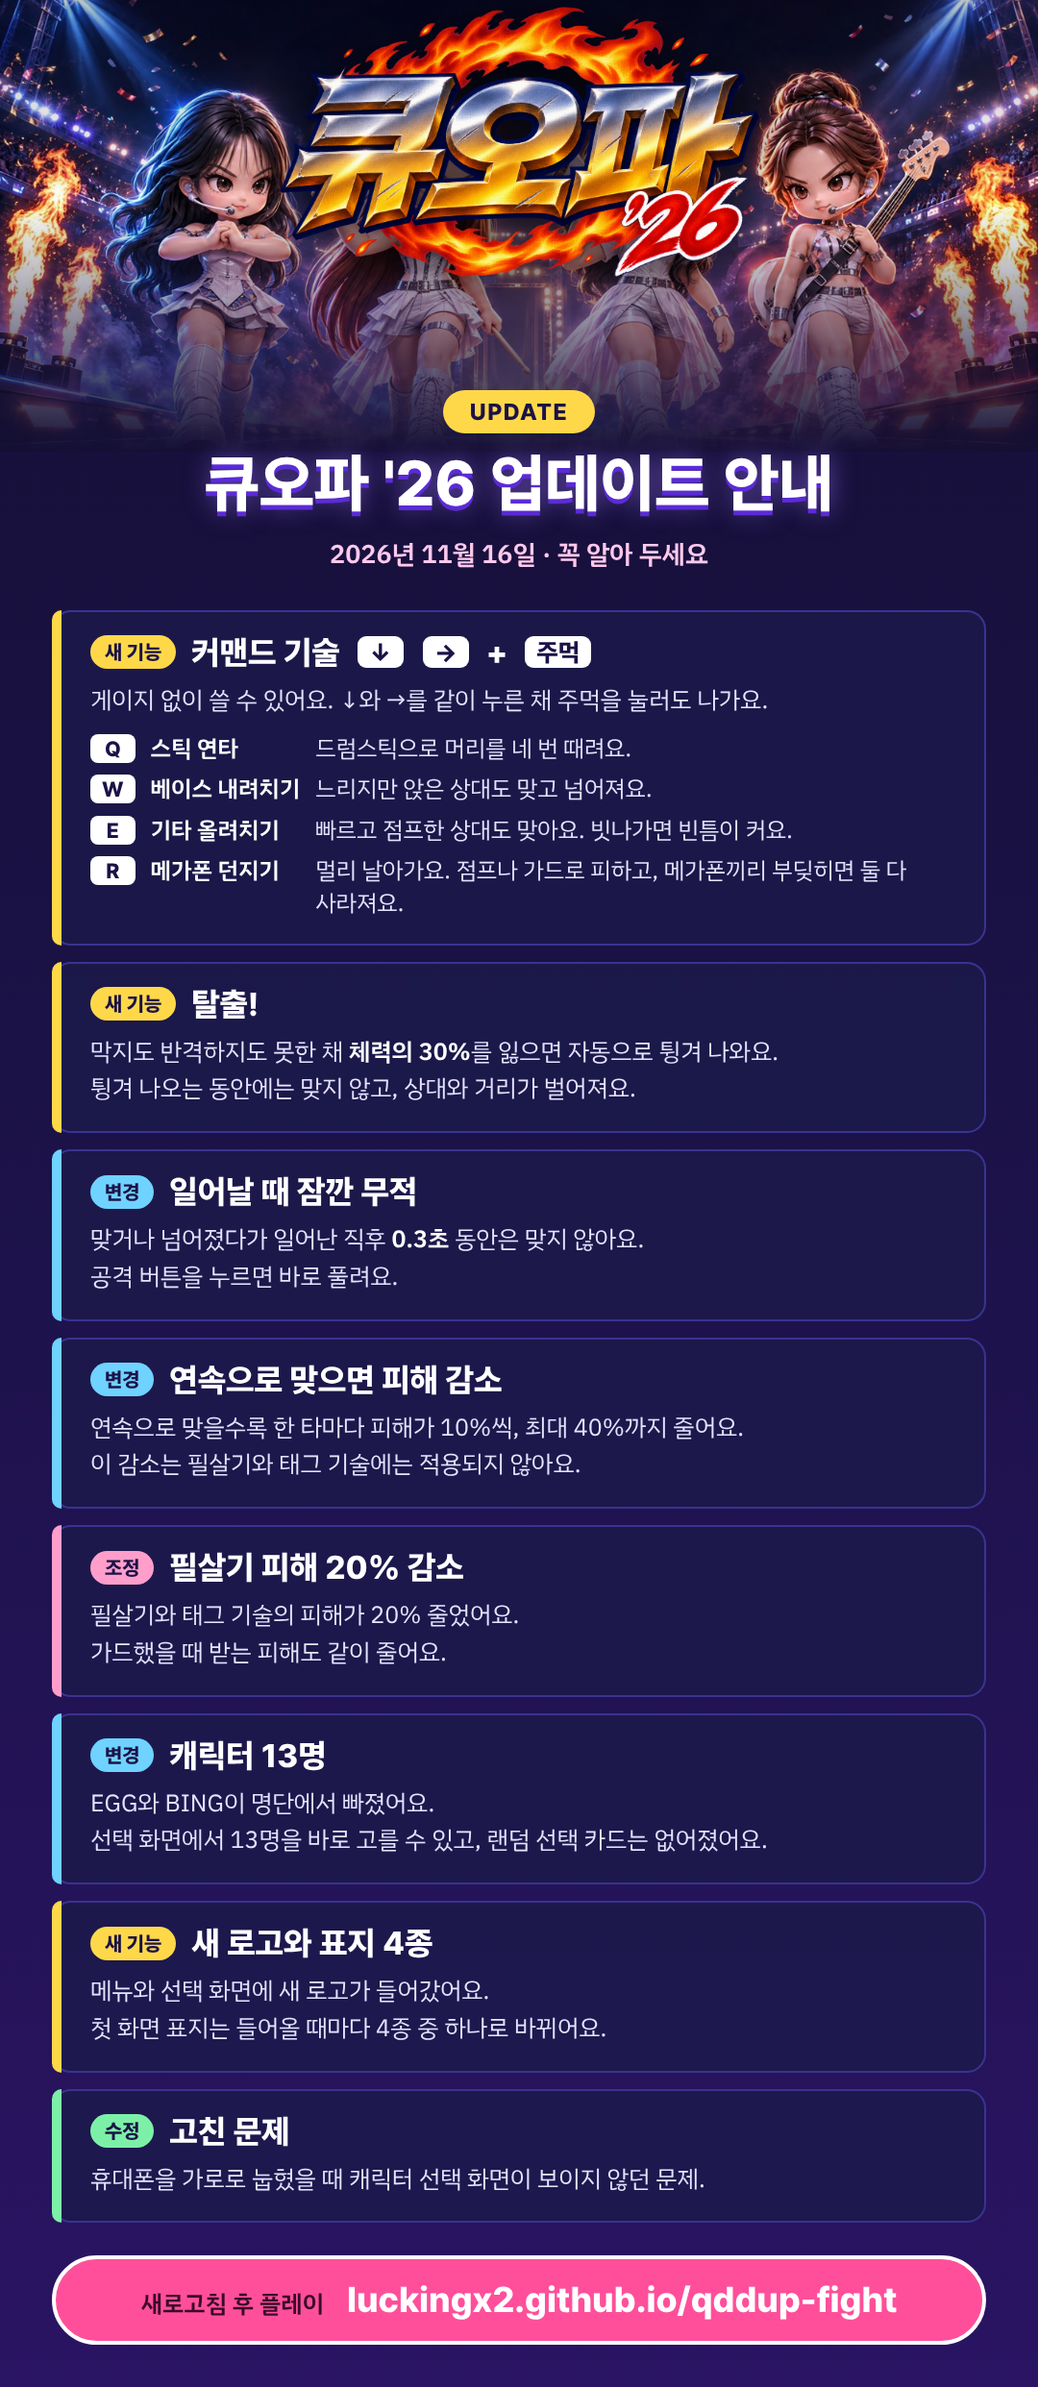
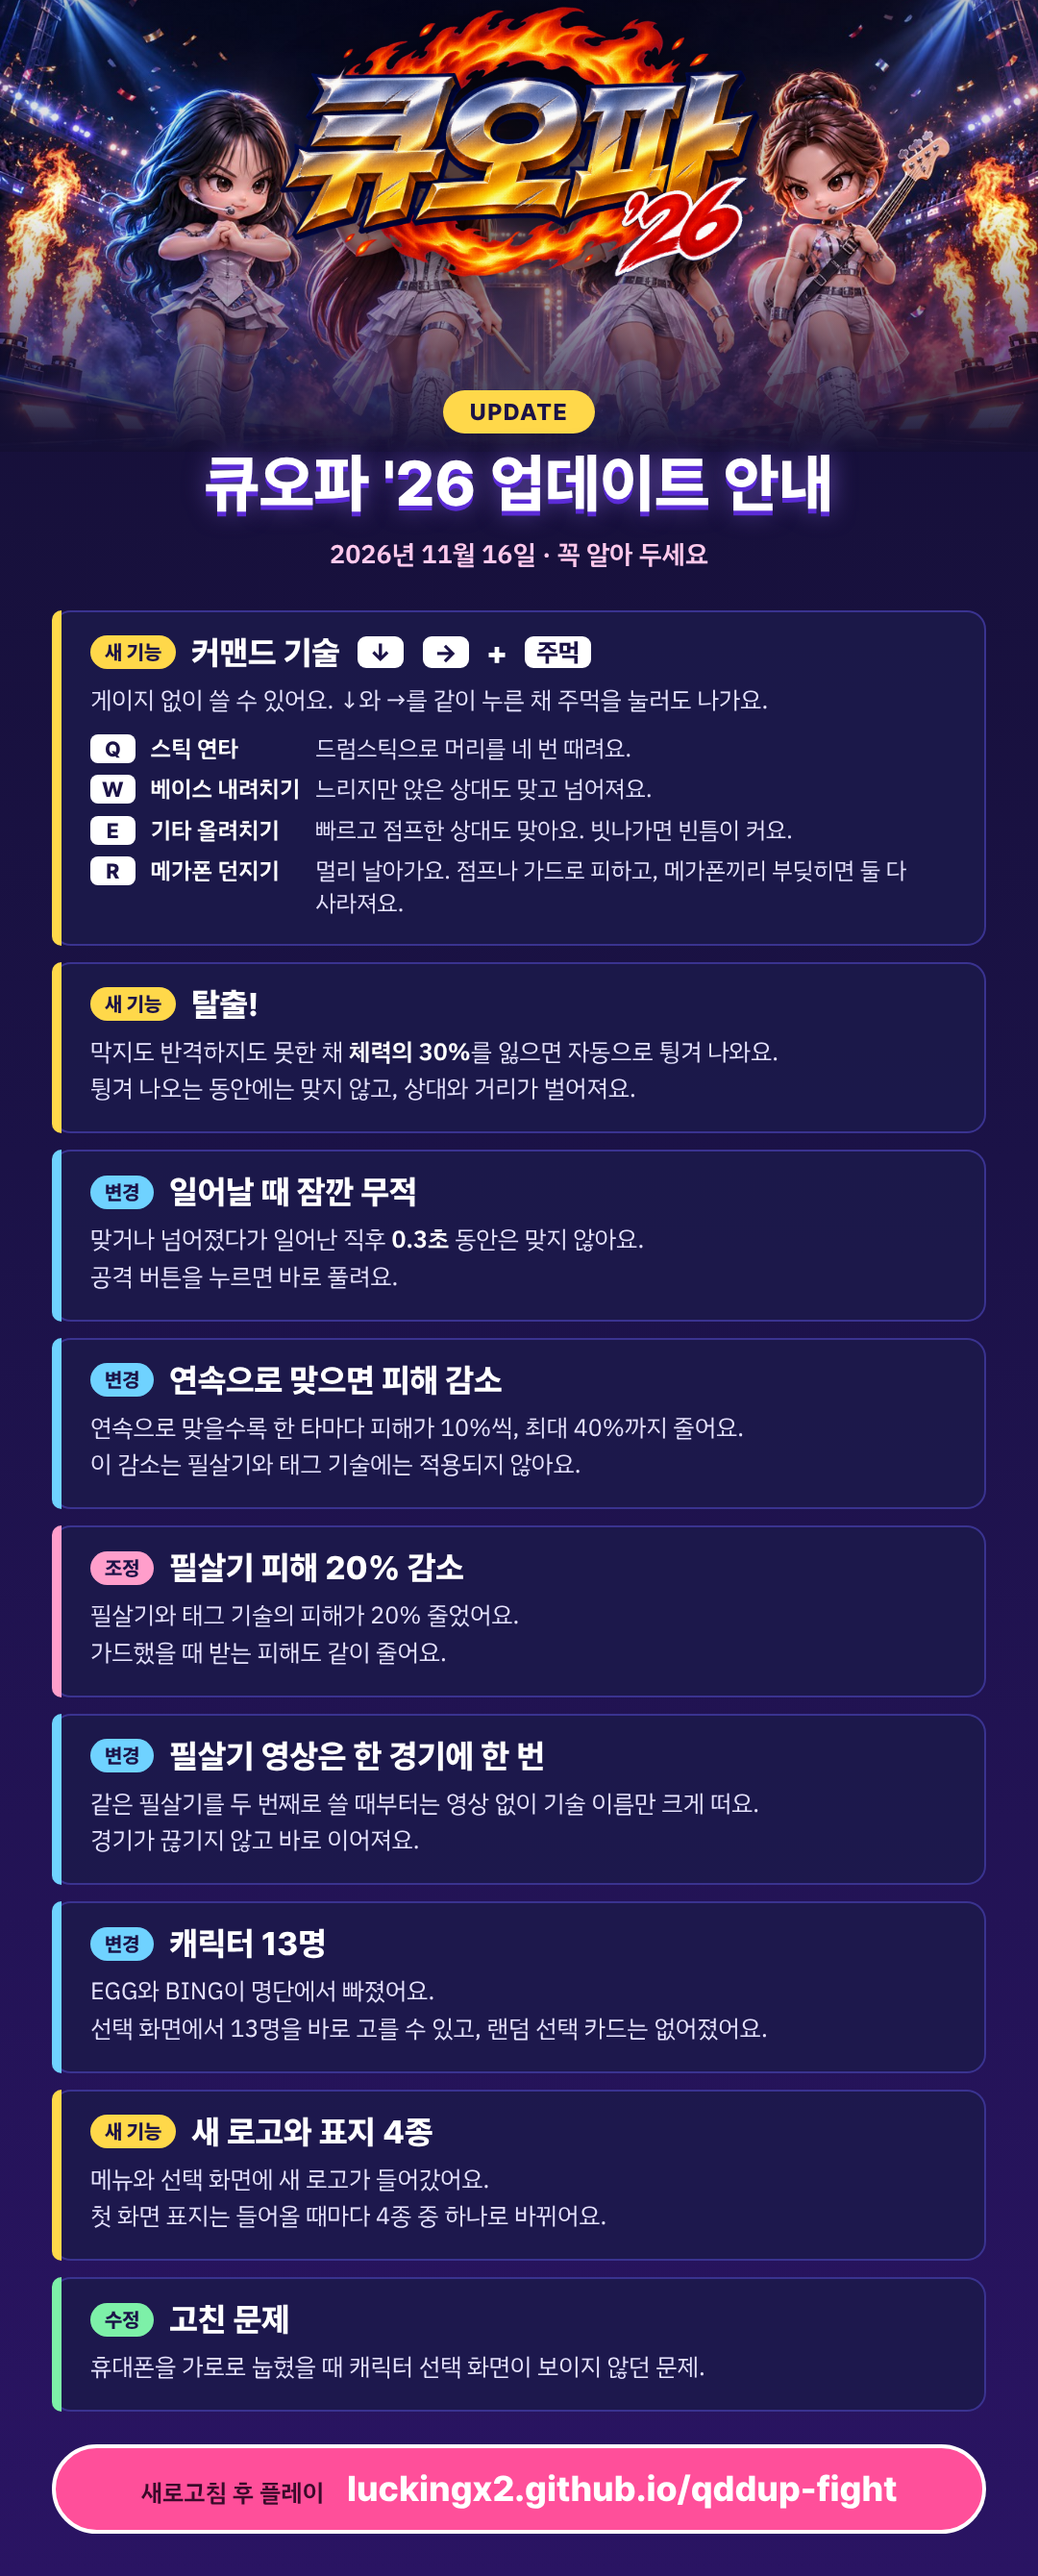
필살기 영상은 한 경기에 한 번만, 이후에는 기술 이름 글자로 표시 (배포 전)
Claude-Session: https://claude.ai/code/session_01NdxQTKJmcwDMuki8kQYjr5

Changed region(s): [[0.0, 0.0, 1.0, 0.9919], [0.0306, 0.372, 0.0611, 0.403], [0.0306, 0.217, 0.0611, 0.248]]

diff --git a/js/cutin.js b/js/cutin.js
@@ -19,9 +19,12 @@ const VID={};let cut=null,usedSp={},vUn=false;
 function mkVids(){for(const sk of SVK)for(const c of ORDER){if(sk==='2'&&SPN[c]<2)continue;if(sk!=='T'&&SPN[c]>1&&(sk==='2')!==(SPV[c]===1))continue;if(sk==='T'&&!TAG[c])continue;const k=c+sk,v=document.createElement('video');v.preload=sk||!IS_PC?'metadata':'auto';v.playsInline=true;v.setAttribute('playsinline','');v.setAttribute('webkit-playsinline','');v.src=av('assets/videos/sp_'+(FIRE_CUTINS[k]||VAL[k]||k)+'.mp4');$('cut').insertBefore(v,$('cutH'));VID[k]=v}
   $('cut').addEventListener('pointerdown',e=>{e.preventDefault();if(cut&&cut.t>.5&&!net)endCut()})}
 function unlockVids(){if(vUn)return;vUn=true;for(const k in VID){const v=VID[k];try{v.muted=true;const p=v.play();if(p&&p.then)p.then(()=>{if(cut?.v===v)return;v.pause();try{v.currentTime=0}catch(e){}}).catch(()=>{})}catch(e){}}}
-function startCut(f){if(net&&net.host)net.cn++;$('cutH').style.display=net?'none':'';const vk=f.ch+SVK[f.sv||0],v=VID[vk];if(!v||v.error||(!VBLOB[vk]&&v.readyState<3)){if(v&&!v.error)warmVid(v);if(!net||net.host)sfx.charge();return}
+// 영상 없이 필살기 이름만 크게 띄움 (한 경기에서 같은 필살기를 두 번째부터 쓸 때, 영상이 준비되지 않았을 때)
+function specialCall(f,vk){fx.push({k:'call',x:f.x,y:GROUND-f.y-330,t:0,d:1.15,txt:(SPECIAL_NAMES[vk]||CH[f.ch].name+' 태그기')+'!',col:CH[f.ch].col,dir:f.face})}
+function startCut(f){if(net&&net.host)net.cn++;$('cutH').style.display=net?'none':'';const vk=f.ch+SVK[f.sv||0],v=VID[vk],own=!net||net.host;if(!v||v.error||(!VBLOB[vk]&&v.readyState<3)){if(v&&!v.error)warmVid(v);if(own){specialCall(f,vk);sfx.charge()}return}
+  if(own&&usedSp[vk+(f.cpu?'c':'p')]){specialCall(f,vk);sfx.charge();return}
   $('cut').setAttribute('aria-label',SPECIAL_NAMES[vk]||CH[f.ch].name+' 태그기');
-  const key=vk+(f.cpu?'c':'p'),rate=usedSp[key]&&!FIRE_CUTINS[vk]?1.9:1;usedSp[key]=1;
+  const key=vk+(f.cpu?'c':'p'),rate=1;usedSp[key]=1;
   cut={f,v,vk,t:0,max:((v.duration||5)/rate)+1.5};try{v.currentTime=0}catch(e){}
   v.playbackRate=rate;setVideoVolume(v);v.classList.toggle('flip',f.face<0);v.classList.add('on');$('cut').classList.add('on');setMusicGain(.08);
   const current=cut;

diff --git a/js/render.js b/js/render.js
@@ -328,6 +328,12 @@ function render(tm){
     else if(e.k==='geyserCharge'||e.k==='geyser')drawBassGeyser(e,sx,a);
     else if(e.k==='beam'){cx.globalCompositeOperation='lighter';cx.lineCap='round';const w=Math.sin(Math.min(1,e.t/e.d)*3.1416);for(let q=0;q<2;q++){cx.strokeStyle=e.gold?(q?'#fff3b0':'#ffc93c'):e.pur?(q?'#e0b8ff':'#8b5cf6'):(q?'#5ef2ff':'#ff6fb5');cx.lineWidth=16*w+2;cx.beginPath();for(let x=0;x<=1000;x+=14){const yy=Math.sin(x*.03-tm*34+q*3.1416)*18;cx.lineTo(sx+e.dir*x,e.y+yy)}cx.stroke()}cx.strokeStyle='#fff';cx.lineWidth=7*w;cx.beginPath();cx.moveTo(sx,e.y);cx.lineTo(sx+e.dir*1000,e.y);cx.stroke()}
     else if(e.k==='bolt'){cx.globalCompositeOperation='lighter';cx.globalAlpha=Math.min(1,a*2);cx.lineJoin='round';for(let q=0;q<2;q++){cx.strokeStyle=q?'#fff':'#6fd0ff';cx.lineWidth=q?5:16;cx.beginPath();cx.moveTo(sx+Math.sin(e.seed)*60,-10);for(let i=1;i<=8;i++){const yy=e.y*i/8;cx.lineTo(sx+(i===8?0:Math.sin(e.seed*i*1.7+Math.floor(e.t*30))*46),yy)}cx.stroke()}cx.fillStyle='rgba(180,230,255,.8)';cx.beginPath();cx.ellipse(sx,e.y,70*a,16*a,0,0,6.283);cx.fill()}
+    else if(e.k==='call'){const p=Math.min(1,e.t/.14),out=Math.max(0,(e.t-(e.d-.25))/.25),X=Math.max(190,Math.min(VW-190,sx)),Y=Math.max(135,e.y);
+      cx.save();cx.translate(X,Y);cx.transform(1,0,-.2,1,0,0);cx.scale(1.6-.6*p,1.6-.6*p);cx.globalAlpha=(1-out)*.85;
+      cx.font="46px 'Black Han Sans','Pretendard',sans-serif";const tw=cx.measureText(e.txt).width+70;
+      const g=cx.createLinearGradient(-tw/2,0,tw/2,0);g.addColorStop(0,'rgba(11,10,28,0)');g.addColorStop(.18,'rgba(11,10,28,.86)');g.addColorStop(.82,'rgba(11,10,28,.86)');g.addColorStop(1,'rgba(11,10,28,0)');cx.fillStyle=g;cx.fillRect(-tw/2-40,-36,tw+80,72);
+      cx.fillStyle=e.col;cx.fillRect(-tw/2,-38,tw,4);cx.fillRect(-tw/2,34,tw,4);cx.globalAlpha=1-out;
+      txt(e.txt,0,2,46,'#fff','center',"'Black Han Sans'",9);cx.lineWidth=2;cx.strokeStyle=e.col;cx.strokeText(e.txt,0,2);cx.restore()}
     else if(e.k==='d'){cx.globalAlpha=Math.min(1,a*2);txt(String(e.txt),sx,e.y-(1-a)*46,24,'#fff','center',0,5)}
     cx.restore()}
   cx.restore();

diff --git a/index.html b/index.html
@@ -143,12 +143,12 @@
 <script src="js/auth.js?v=a57b72e5"></script>
 <script src="js/input.js?v=5594c459"></script>
 <script src="js/controls.js?v=e72aa610"></script>
-<script src="js/cutin.js?v=de670ff4"></script>
+<script src="js/cutin.js?v=47e96bdb"></script>
 <script src="js/emote.js?v=fe681610"></script>
 <script src="js/fight.js?v=d7c3f1d4"></script>
 <script src="js/ai.js?v=1de03b4e"></script>
 <script src="js/update.js?v=bd9d78fe"></script>
-<script src="js/render.js?v=04638836"></script>
+<script src="js/render.js?v=531059c4"></script>
 <script src="js/main.js?v=c70dfb56"></script>
 </body>
 </html>

diff --git a/TODO.md b/TODO.md
@@ -623,3 +623,12 @@
 - 사람끼리 대전에서는 맞을 때 게이지가 더 빨리 차서 2회 쓰는 경우가 컴퓨터보다 많을 수 있음(미측정). 필요하면 횟수 제한을 추가
 - 캐릭터 소개 페이지의 "필살기 피해 %"는 캐릭터 간 상대값이라 그대로 둠
 
+**필살기 영상은 한 경기에 한 번만 (개발 중, 아직 배포 안 함)**
+- 사용자 요청: 필살기 애니메이션은 최초 1회만, 그다음부터는 필살기 이름을 외치는 글자만 표시
+- `cutin.js`: 한 경기(3판 2선승 전체)에서 같은 필살기·태그기를 같은 쪽이 두 번째로 쓸 때부터 영상을 틀지 않고 `specialCall`로 이름을 띄움. 예전에는 두 번째부터 1.9배속으로 재생했음. 기록(`usedSp`)은 경기가 시작될 때 지워짐
+- 영상이 아직 준비되지 않아 못 트는 경우에도 같은 글자를 띄움
+- 영상이 없을 때는 기 모으기 0.5초 뒤 발동(기존 규칙 그대로). 그동안 게임은 멈추지 않음
+- `render.js`: `call` 이펙트(기울어진 큰 글자 + 캐릭터 색 줄). 온라인에서는 방장이 판단하고 상대 화면에는 이펙트로 전달됨
+- 음성은 없음(필살기 음성 파일이 없음). 효과음은 기 모으기 소리 그대로
+- 확인: 브라우저에서 W3 필살기 1회차 영상 재생, 2회차 영상 없이 글자 표시와 필살기 발동(피해 들어감) 확인. 미확인: 온라인 대전, 태그기, 실제 휴대폰
+

diff --git a/RELEASE_NOTES.md b/RELEASE_NOTES.md
@@ -7,6 +7,9 @@
 - 연속으로 맞을수록 피해가 줄어듭니다. 한 타마다 10%씩, 최대 40%까지 줄어듭니다. 이 감소는 필살기와 태그 기술에는 적용되지 않습니다.
 - 막지도 반격하지도 못한 채 체력의 30%를 잃으면 "탈출!"과 함께 자동으로 튕겨 나와 거리가 벌어집니다.
 
+### 필살기 연출 영상은 한 경기에 한 번만
+- 같은 필살기를 한 경기에서 두 번째로 쓸 때부터는 영상 없이 기술 이름만 크게 뜹니다. 경기가 끊기지 않습니다.
+
 ### 필살기 피해 감소
 - 필살기와 태그 기술의 피해가 20% 줄었습니다. 가드했을 때 받는 피해도 같이 줄었습니다.
 
